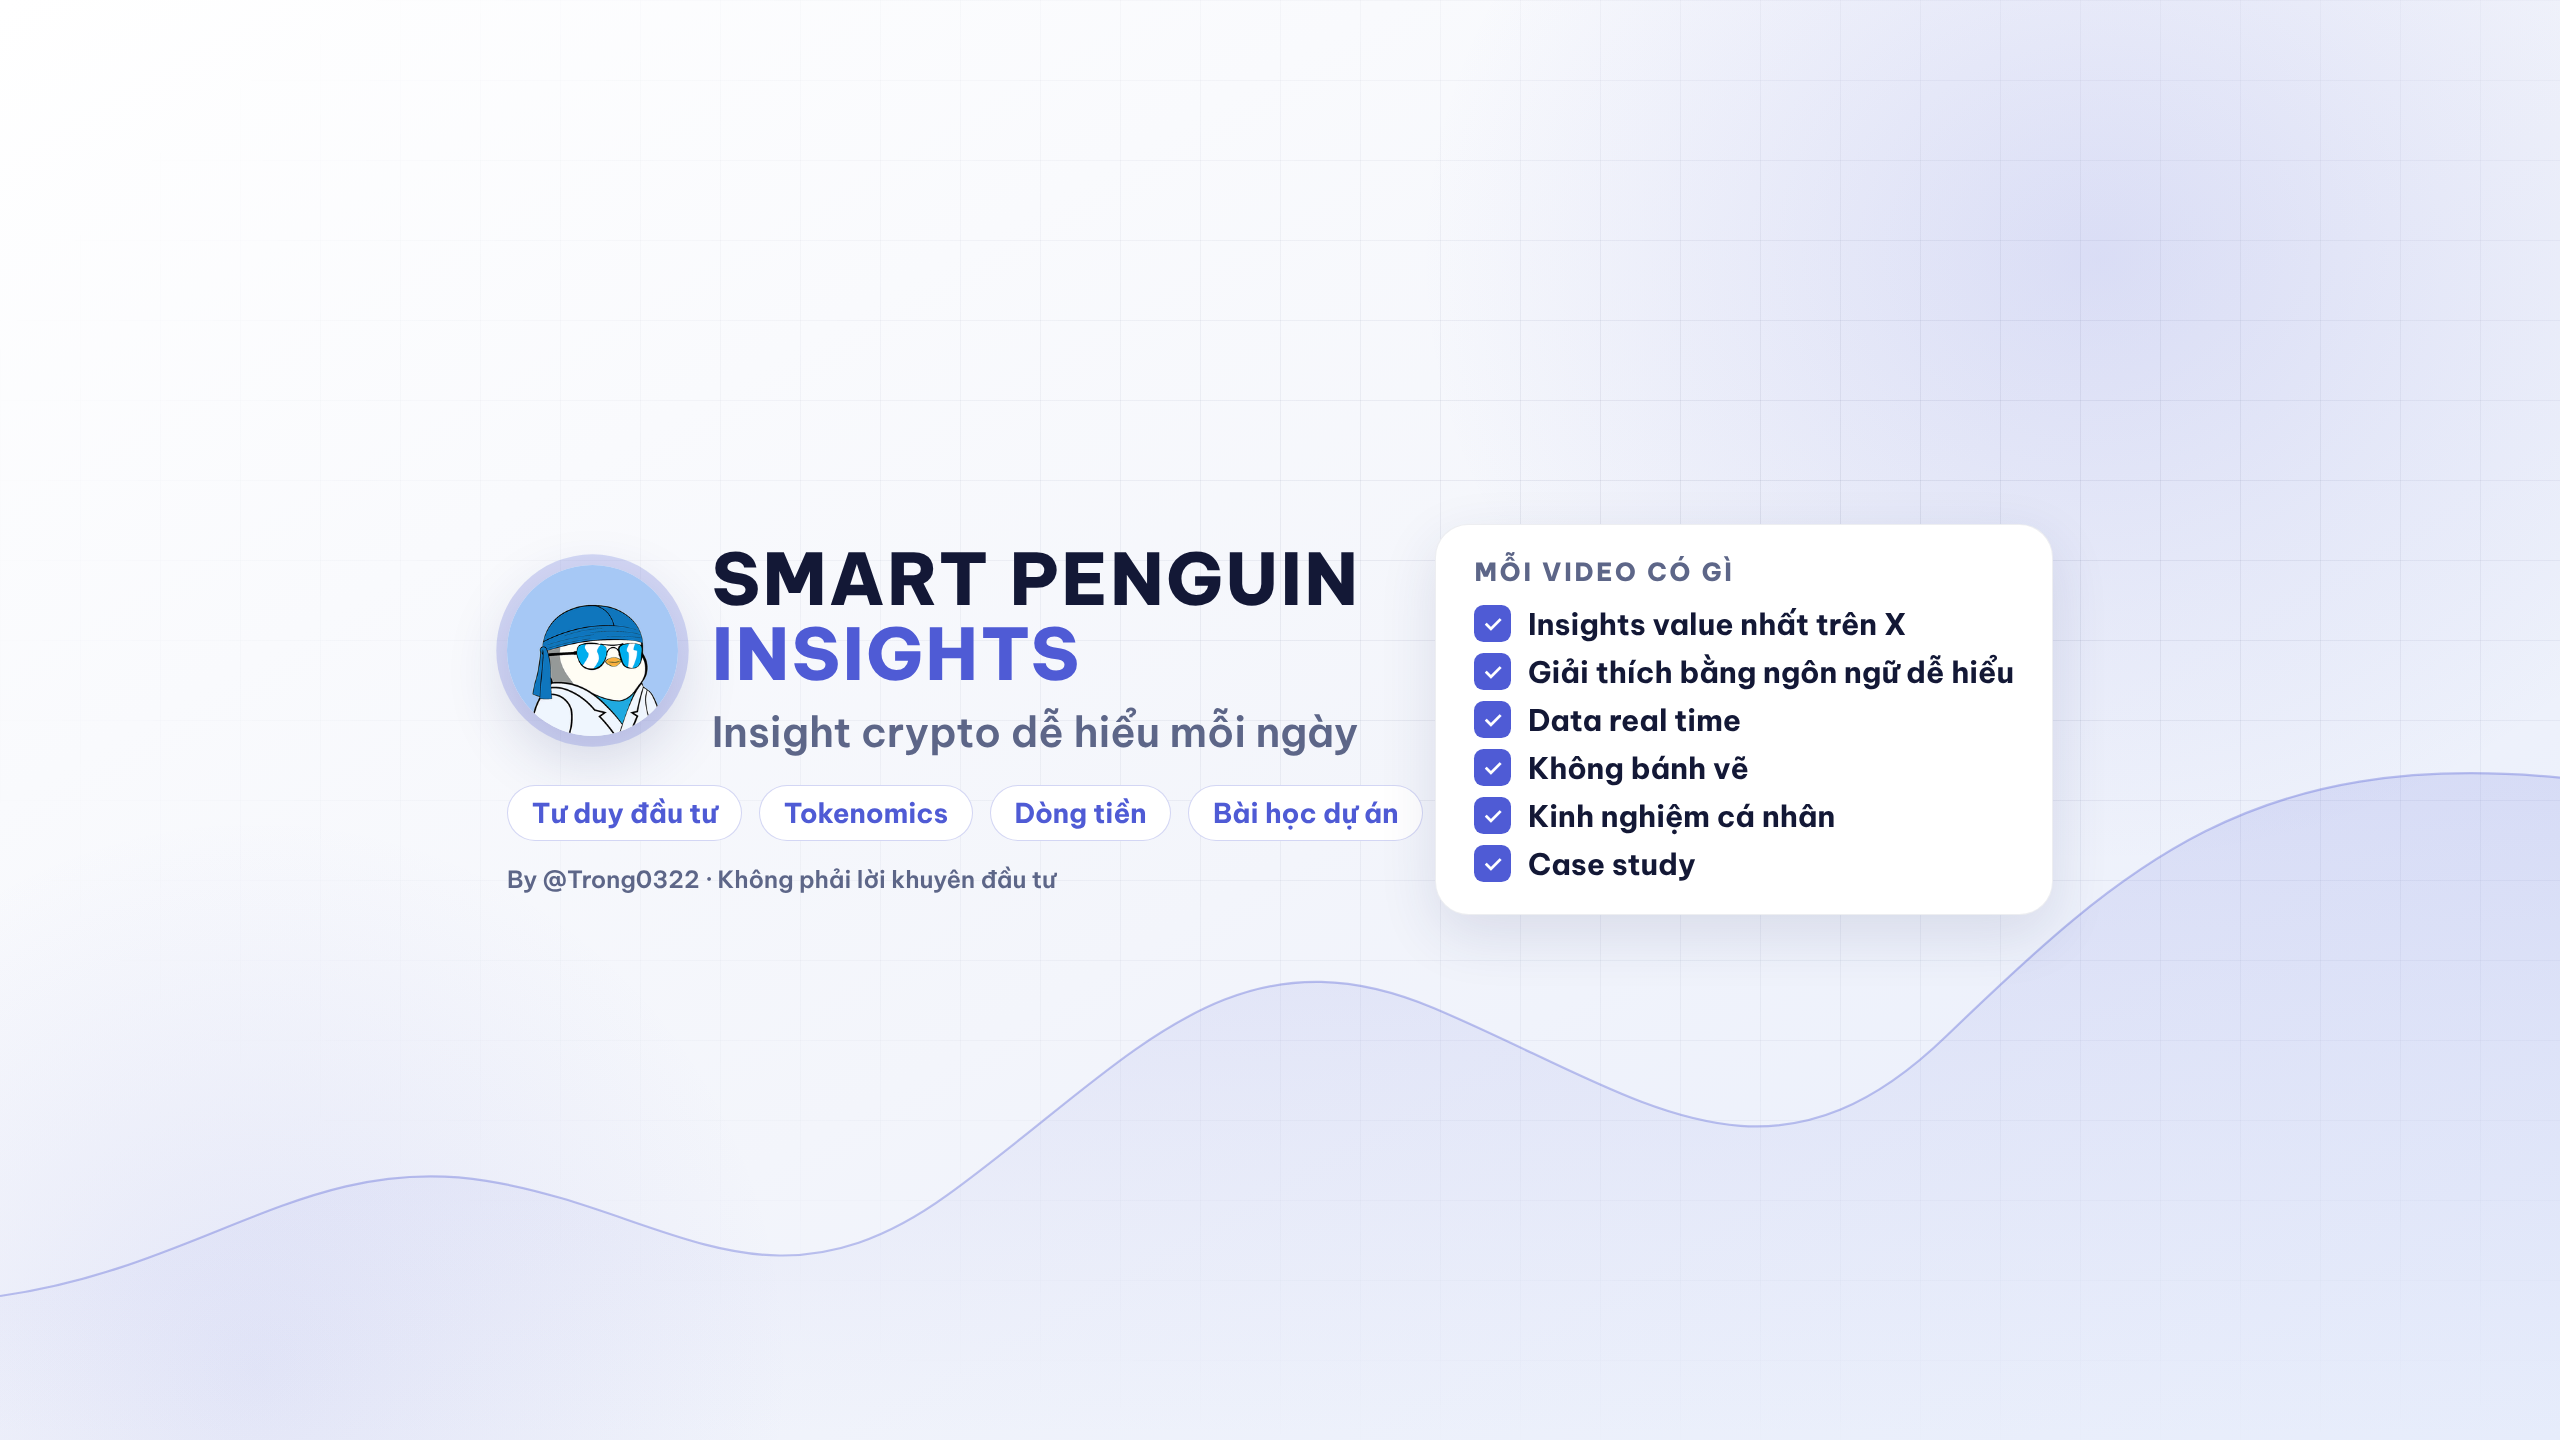
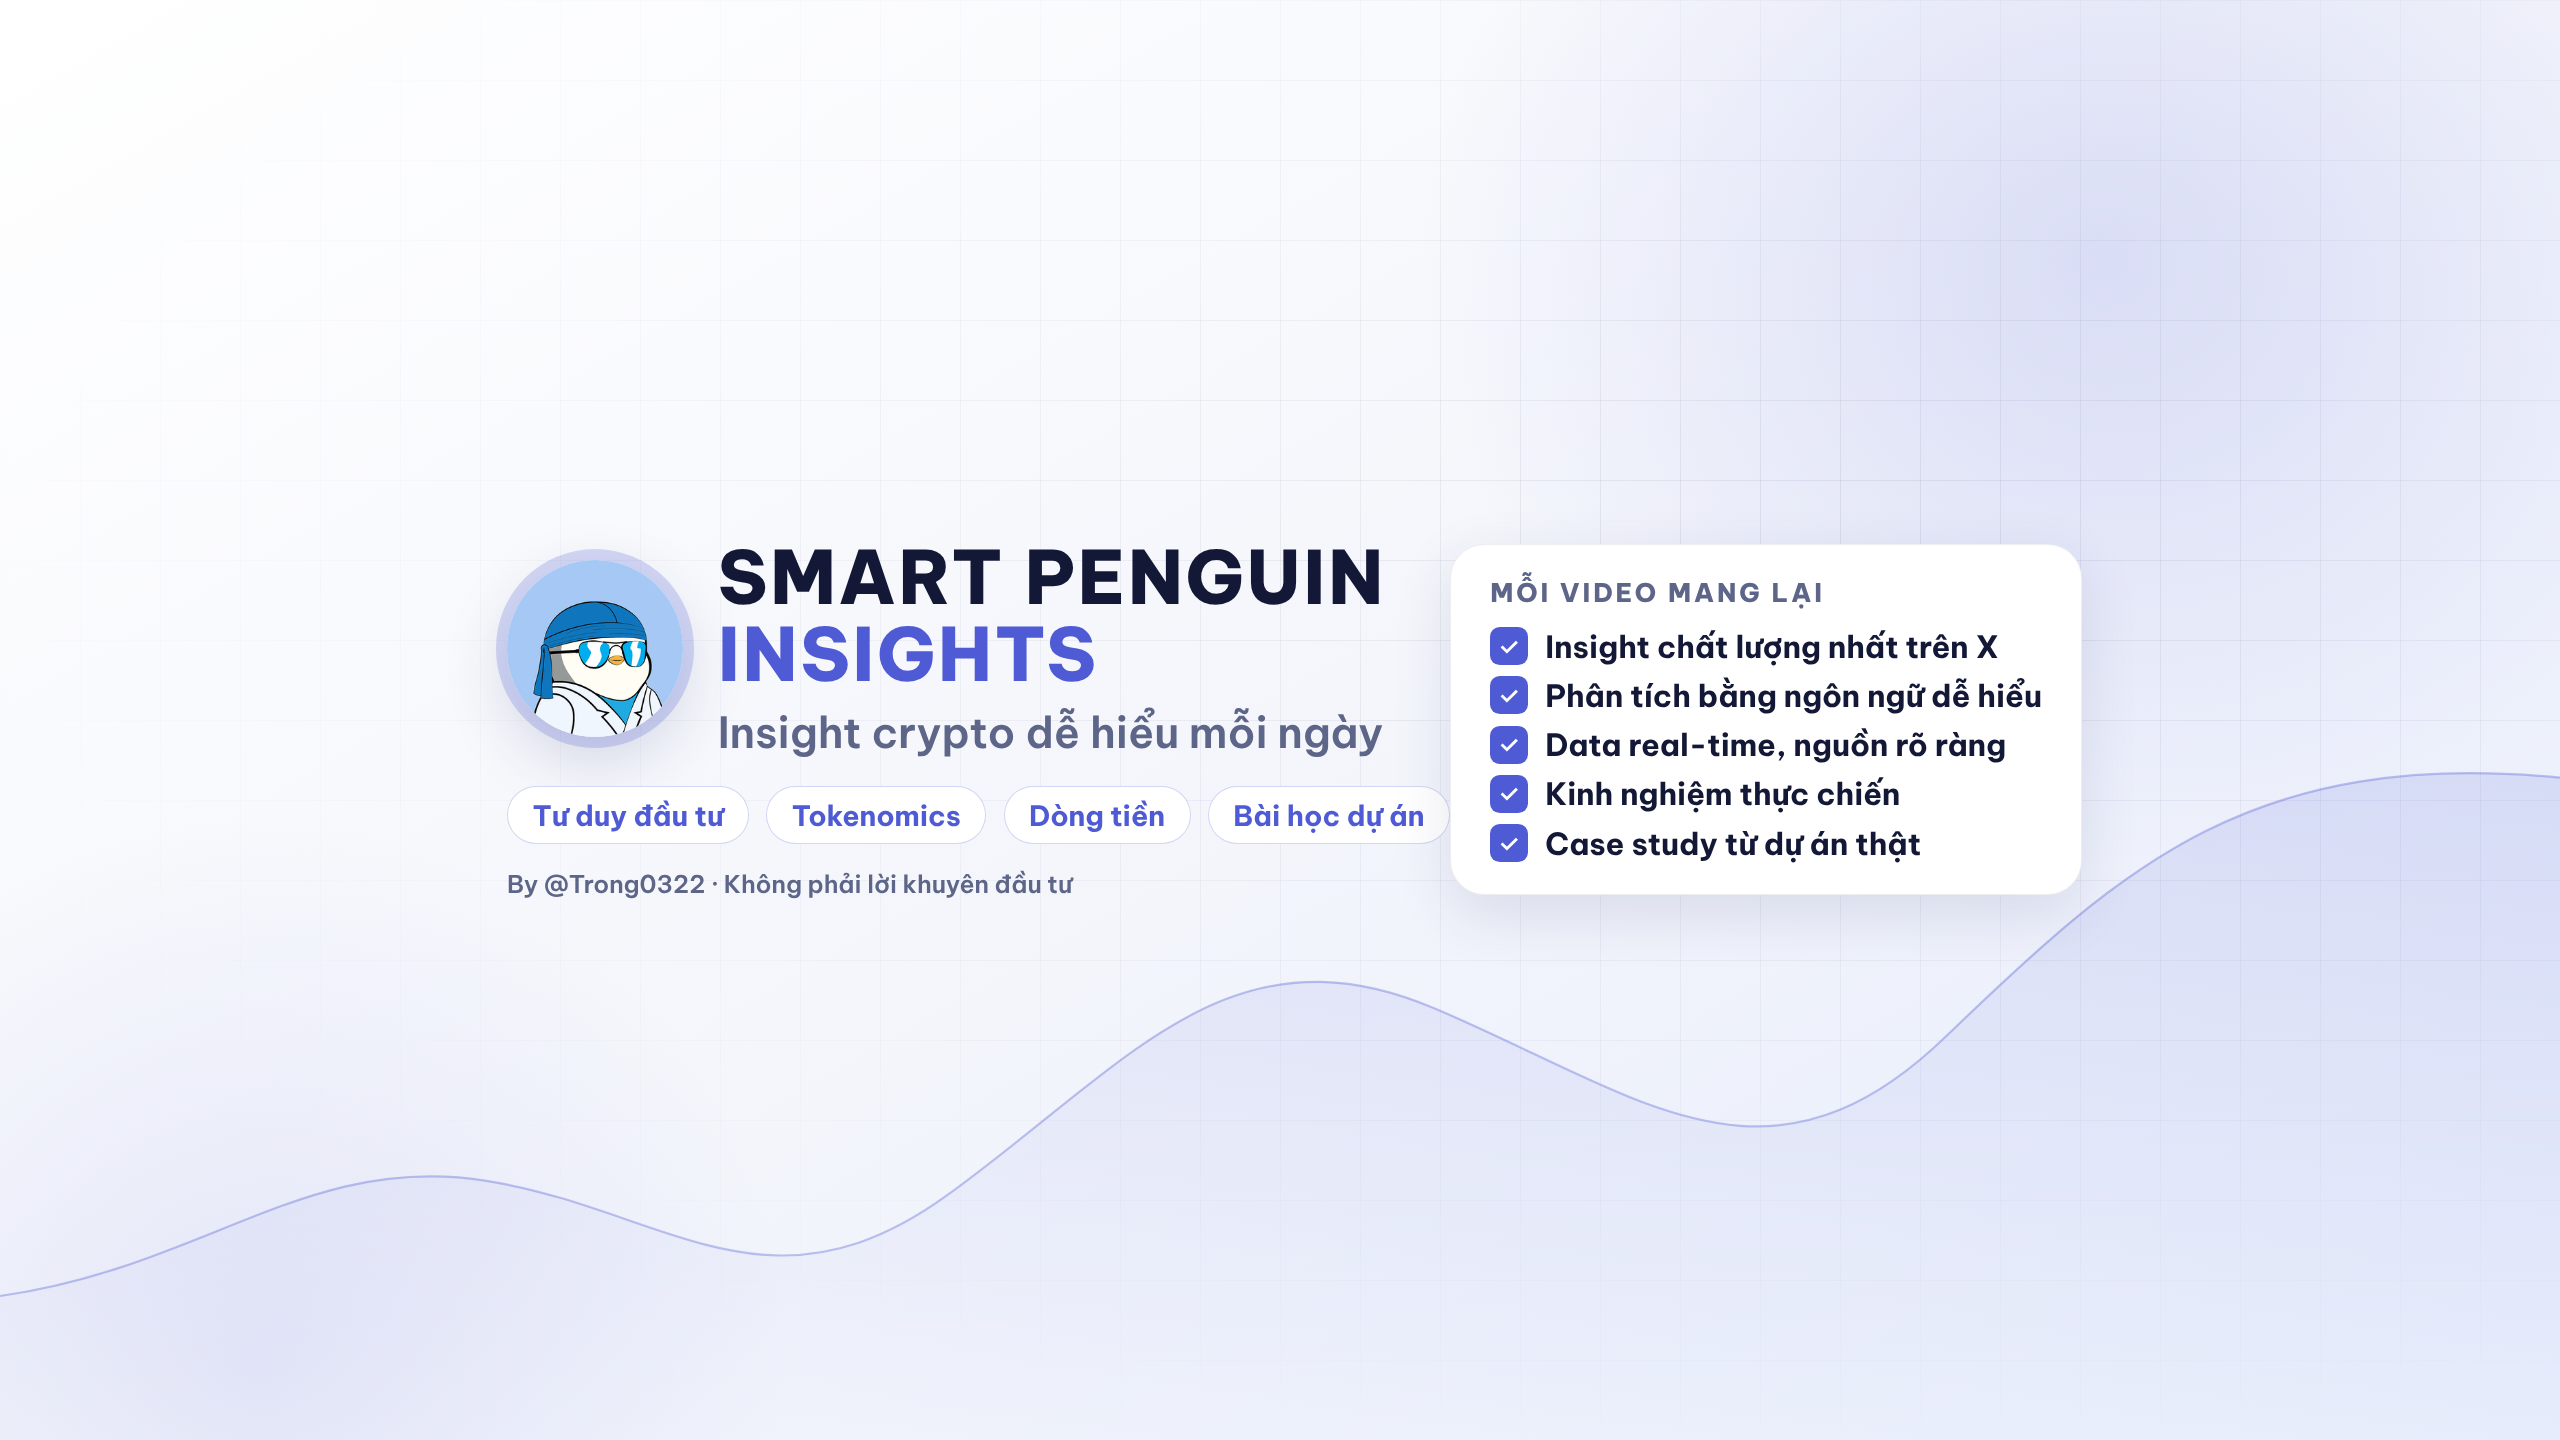
Ảnh bìa kiểu A: MỖI VIDEO MANG LẠI, 5 điểm, bỏ Không bánh vẽ
Claude-Session: https://claude.ai/code/session_01JEaTu9AXammCfPmBQArb68

Changed region(s): [[0.1875, 0.3438, 0.8125, 0.6562]]

diff --git a/branding/banner-template.html b/branding/banner-template.html
@@ -51,13 +51,12 @@ svg.wave{position:absolute;left:0;bottom:0;width:100%;height:60%}
     <div class="foot">By @Trong0322 · Không phải lời khuyên đầu tư</div>
   </div>
   <div class="card">
-    <h4>MỖI VIDEO CÓ GÌ</h4>
-        <div class="row"><div class="tick">✓</div>Insights value nhất trên X</div>
-    <div class="row"><div class="tick">✓</div>Giải thích bằng ngôn ngữ dễ hiểu</div>
-    <div class="row"><div class="tick">✓</div>Data real time</div>
-    <div class="row"><div class="tick">✓</div>Không bánh vẽ</div>
-    <div class="row"><div class="tick">✓</div>Kinh nghiệm cá nhân</div>
-    <div class="row"><div class="tick">✓</div>Case study</div>
+    <h4>MỖI VIDEO MANG LẠI</h4>
+        <div class="row"><div class="tick">✓</div>Insight chất lượng nhất trên X</div>
+    <div class="row"><div class="tick">✓</div>Phân tích bằng ngôn ngữ dễ hiểu</div>
+    <div class="row"><div class="tick">✓</div>Data real-time, nguồn rõ ràng</div>
+    <div class="row"><div class="tick">✓</div>Kinh nghiệm thực chiến</div>
+    <div class="row"><div class="tick">✓</div>Case study từ dự án thật</div>
   </div>
 </div>
 </body></html>
